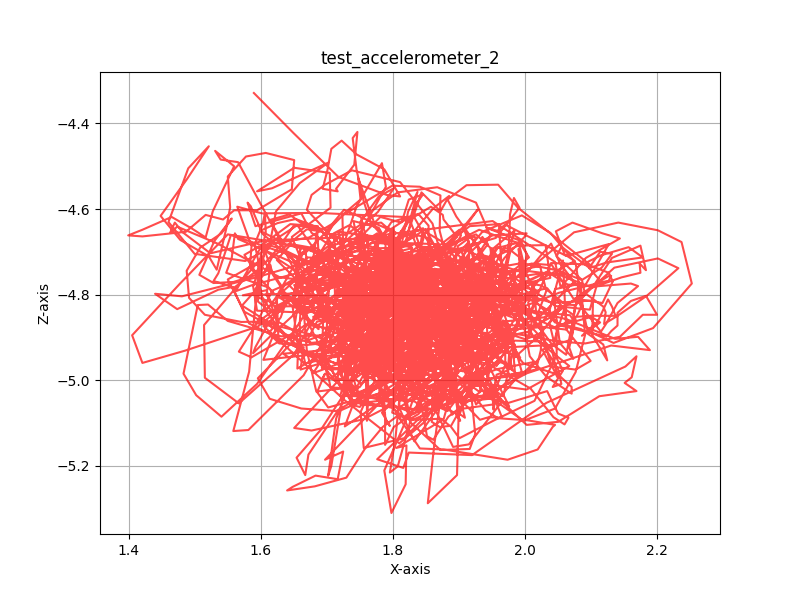
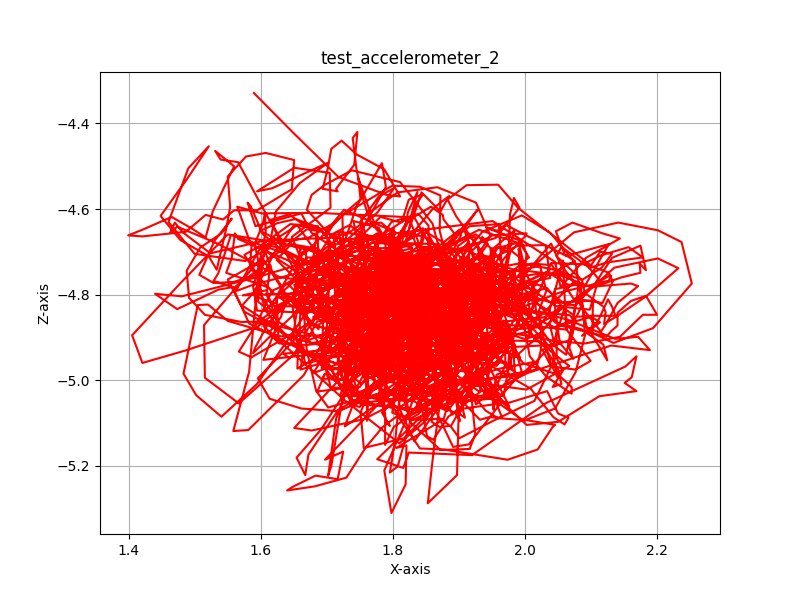
accelerometer_plotter.py updates
the script now works through a given directory that can be changed in one line. README.md has been updated to show how to change it. Opacity of the line in the plots has been changed

diff --git a/accelerometer_plotter.py b/accelerometer_plotter.py
@@ -1,19 +1,20 @@
 import numpy as np
 import matplotlib.pyplot as plt
+import os
 
 #Read the data of a file and format the time, x and z columns into numpy arrays
 def readData(filename):
     with open(filename, 'r') as file:
         lines = file.readlines()
 
-    #Extract trial name
+    #Get the trial name
     trial_lines = [line for line in lines if line.startswith("Trial:")]
     trial_name = trial_lines[1].split("\t")[1].strip().replace(".txt", "") if len(trial_lines) > 1 else "Unknown"
 
     #Locate the data section
     data_start = next(i for i, line in enumerate(lines) if line.startswith("Unix Time")) + 1
 
-    #Read the data lines
+    #Read the data lines and split the entries with tabs
     data = [line.strip().split('\t') for line in lines[data_start:]]
 
     #Convert the data to numpy arrays
@@ -26,7 +27,7 @@ def readData(filename):
 def plotData(x, z, trial_name):
     plt.figure(figsize=(8, 6))
     #plt.scatter(x, z, c='blue', alpha=0.7, edgecolors='k', label="Data Points")
-    plt.plot(x, z, c='red', alpha=0.7, label="Line Connection")
+    plt.plot(x, z, c='red', alpha=1, label="Line Connection")
     plt.title(f"{trial_name}")
     plt.xlabel("X-axis")
     plt.ylabel("Z-axis")
@@ -35,8 +36,18 @@ def plotData(x, z, trial_name):
     plt.savefig(trial_name + ".png")
     plt.close()
 
-#Example usage
-filename = "test_accelerometer_2.txt"
-trial_name, x, z = readData(filename)
+    return 0
 
-plotData(x, z, trial_name)
+
+def main():
+    #Change the following line to change the directory this script is worked in
+    directory = "C://Users//conbo//Documents//GitHub//MARL_accelerometer_script"
+
+    os.chdir(directory)
+    for file in os.listdir():
+        if ".txt" in file.lower() and "accelerometer" in file.lower():
+            print(file)
+            trial_name, x, z = readData(file)
+            plotData(x, z, trial_name)
+
+main()

diff --git a/README.md b/README.md
@@ -1,2 +1,5 @@
 # MARL_accelerometer_script
  Reads data from an accelerometer text file and converts it to a plot as an image
+
+ To change which directory is worked in, edit line 44 to the desred path
+ Please note that python doesn't like the use of "\" in strings, so I used "//" instead
